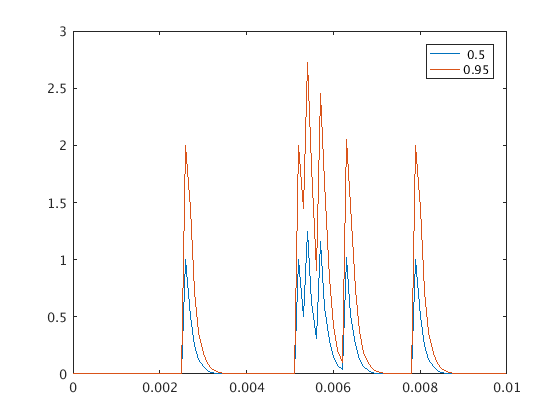
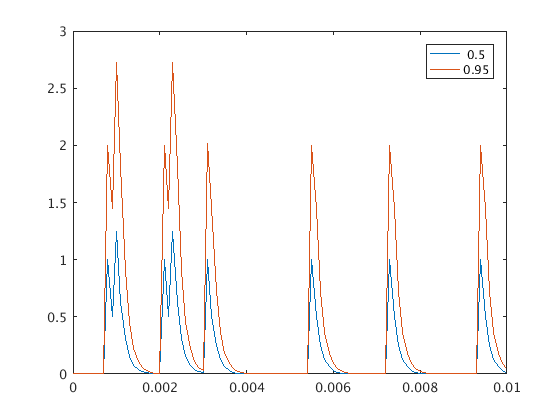
change to wording in ARmodel page

diff --git a/tutorial/html/ARmodel.html b/tutorial/html/ARmodel.html
@@ -66,16 +66,17 @@ table td { padding:7px 5px; text-align:left; vertical-align:top; border:1px soli
 
 
 
-  </style></head><body><div class="content"><h1>Autoregressive Model for Calcium Dynamics</h1><!--introduction--><p>Explain what an autoregressive model is and how this applies</p><!--/introduction--><h2>Contents</h2><div><ul><li><a href="#1">Generate spikes from exponential distribution</a></li><li><a href="#2">Applying the AR model to Action Potentials</a></li></ul></div><h2>Generate spikes from exponential distribution<a name="1"></a></h2><pre class="codeinput">rate = 1000; <span class="comment">% how often spikes occur</span>
-dur = .01; <span class="comment">% duration of trial</span>
-dt = 0.0001; <span class="comment">% time step</span>
+  </style></head><body><div class="content"><h1>Autoregressive Model for Calcium Dynamics</h1><!--introduction--><p>Explain what an autoregressive model is and how this applies</p><!--/introduction--><h2>Contents</h2><div><ul><li><a href="#1">Generate spikes from exponential distribution</a></li><li><a href="#2">Applying the AR model to Action Potentials</a></li></ul></div><h2>Generate spikes from exponential distribution<a name="1"></a></h2><pre class="codeinput">rate = 1000; <span class="comment">% spike rate (Hz)</span>
+dur = .01; <span class="comment">% duration of trial (s)</span>
+dt = 0.0001; <span class="comment">% time step (s)</span>
+T = (0:dt:dur);
 
 spikes = zeros(dur/dt+1,1);
 
 <span class="comment">% Generating spikes from a exponential distribution</span>
-<span class="keyword">for</span> t=0:dt:dur
+<span class="keyword">for</span> t=1:length(T)
     <span class="keyword">if</span> (rate*dt)&gt;=rand
-        spikes(round(t/dt)) = 1;
+        spikes(t) = 1;
     <span class="keyword">end</span>
 <span class="keyword">end</span>
 </pre><h2>Applying the AR model to Action Potentials<a name="2"></a></h2><p>Before implementing the calculation, consider what each of the parameters in the model does. Look again at the AR model.</p><p><img src="ARmodel_eq06263262507588699212.png" alt="$c(t) = \sum_{j=1}^p\gamma_jc(t-j)+s(t)$"></p><p>Consider the following for <img src="ARmodel_eq12081968486337205601.png" alt="$p=1$">: * What does the parameter <img src="ARmodel_eq15212781520413577972.png" alt="$\gamma_1$"> represent? * How do changes to <img src="ARmodel_eq15212781520413577972.png" alt="$\gamma_1$"> affect the calcium signal? * What are reasonable values for this parameter?</p><p>Look at what happens when we vary <img src="ARmodel_eq15212781520413577972.png" alt="$\gamma_1$">:</p><pre class="codeinput">P = 1;
@@ -100,16 +101,17 @@ legend(num2str(Gamma([1,g])'))
 % Explain what an autoregressive model is and how this applies
 
 %% Generate spikes from exponential distribution
-rate = 1000; % how often spikes occur
-dur = .01; % duration of trial
-dt = 0.0001; % time step
+rate = 1000; % spike rate (Hz)
+dur = .01; % duration of trial (s)
+dt = 0.0001; % time step (s)
+T = (0:dt:dur);
 
 spikes = zeros(dur/dt+1,1);
 
 % Generating spikes from a exponential distribution
-for t=0:dt:dur
+for t=1:length(T)
     if (rate*dt)>=rand
-        spikes(round(t/dt)) = 1;
+        spikes(t) = 1;
     end
 end
 

diff --git a/tutorial/ARmodel.m b/tutorial/ARmodel.m
@@ -2,16 +2,17 @@
 % Explain what an autoregressive model is and how this applies
 
 %% Generate spikes from exponential distribution
-rate = 1000; % how often spikes occur
-dur = .01; % duration of trial
-dt = 0.0001; % time step
+rate = 1000; % spike rate (Hz)
+dur = .01; % duration of trial (s)
+dt = 0.0001; % time step (s)
+T = (0:dt:dur);
 
 spikes = zeros(dur/dt+1,1);
 
 % Generating spikes from a exponential distribution
-for t=0:dt:dur
+for t=1:length(T)
     if (rate*dt)>=rand
-        spikes(round(t/dt)) = 1;
+        spikes(t) = 1;
     end
 end
 
